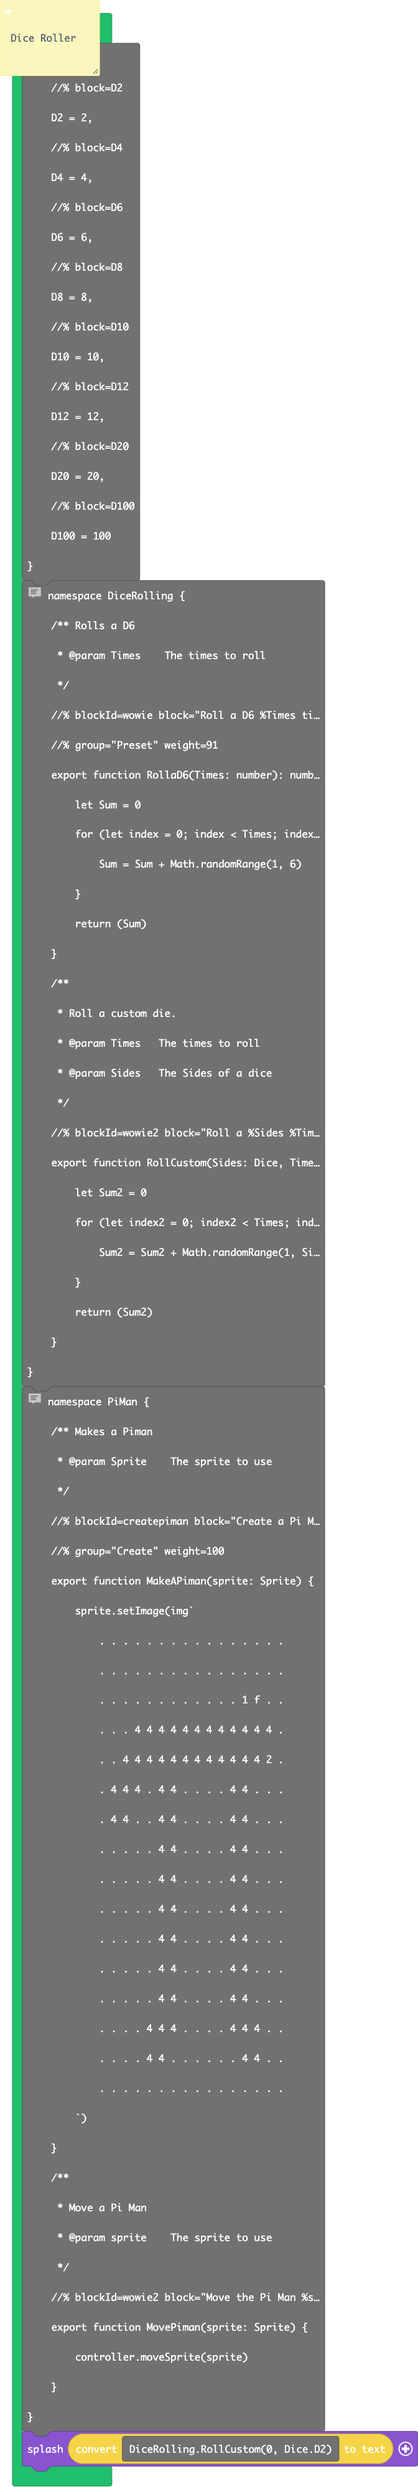
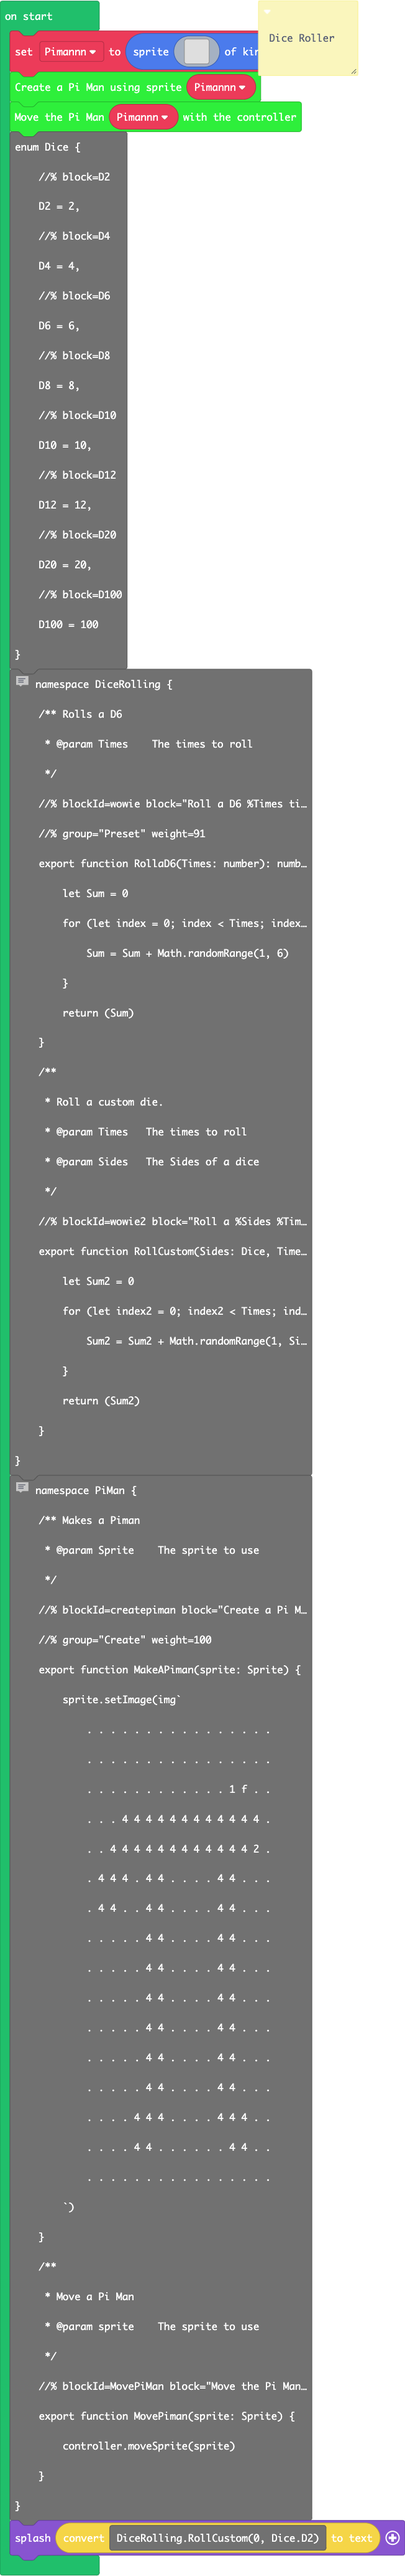
Update main.blocks, main.ts

diff --git a/main.ts b/main.ts
@@ -1,6 +1,26 @@
 /**
  * Dice Roller
  */
+let Pimannn = sprites.create(img`
+    . . . . . . . . . . . . . . . .
+    . . . . . . . . . . . . . . . .
+    . . . . . . . . . . . . . . . .
+    . . . . . . . . . . . . . . . .
+    . . . . . . . . . . . . . . . .
+    . . . . . . . . . . . . . . . .
+    . . . . . . . . . . . . . . . .
+    . . . . . . . . . . . . . . . .
+    . . . . . . . . . . . . . . . .
+    . . . . . . . . . . . . . . . .
+    . . . . . . . . . . . . . . . .
+    . . . . . . . . . . . . . . . .
+    . . . . . . . . . . . . . . . .
+    . . . . . . . . . . . . . . . .
+    . . . . . . . . . . . . . . . .
+    . . . . . . . . . . . . . . . .
+`, SpriteKind.Player)
+PiMan.MakeAPiman(Pimannn)
+PiMan.MovePiman(Pimannn)
 enum Dice {
     //% block=D2
     D2 = 2,
@@ -48,7 +68,7 @@ namespace DiceRolling {
         return (Sum2)
     }
 }
-//% color="#2eef3b" icon="\u03C0" block="Pi Man"
+//% color="#2ecf3b" icon="\u03C0" block="Pi Man"
 //% weight=19
 namespace PiMan {
     /** Makes a Piman
